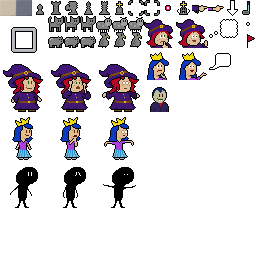
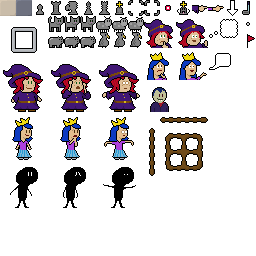
longer minimalist path, with underdoors

Changed region(s): [[0.5625, 0.4375, 0.8125, 0.6875]]

diff --git a/src/game/shared_symbols.h b/src/game/shared_symbols.h
@@ -531,6 +531,9 @@
 #define NS_fld_goblin_secret_entrance 95
 #define NS_fld_bt5 96 /* Jigpiece in caves by the shovel. */
 #define NS_fld_minimalist 97 /* True if we had no other stats when the last Root Devil got strangled. */
+#define NS_fld_jungle_underdoor 98
+#define NS_fld_mountains_underdoor 99
+#define NS_fld_tundra_underdoor 100
 
 /* "fld16" are 16 unsigned bits each.
  */

diff --git a/README.md b/README.md
@@ -37,6 +37,7 @@ Requires [Egg](https://github.com/aksommerville/egg2) to build.
 - - ...trivially reproducible. No need to kill the root devils. Just bus-stop out of the temple. Happens from the caves too.
 - - ...due to `g.song_override_outerworld`. Fixed for the bus. Will probably come up in other ways.
 - [ ] Fishmonger should let you select how many to sell. eg if you're in danger of saturating the purse.
+- [x] Switches in outerworld for doors in the underworld main tunnel. To force a much longer path for minimalist completion.
 
 - For exploration some time in the uncertain future.
 - [x] Can we randomize the statuemaze like we did cryptmsg? ...hell yeah we can
